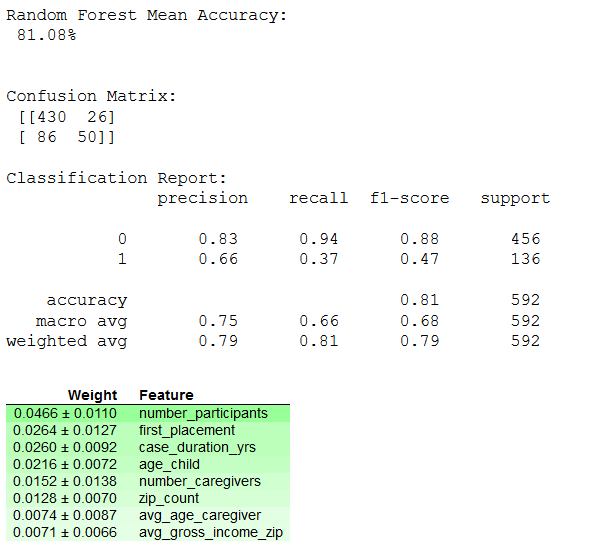
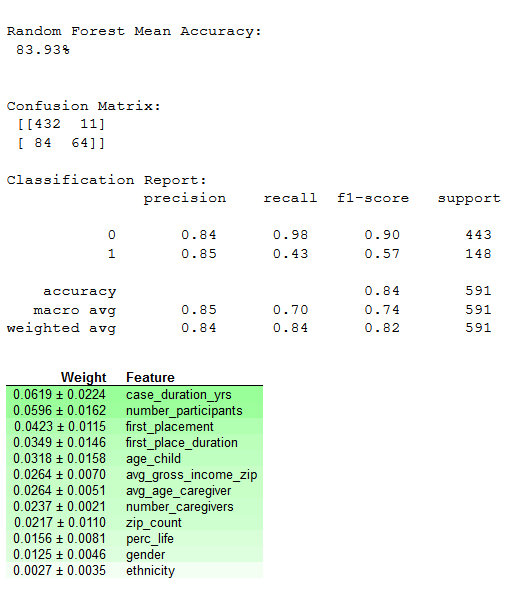
New modeling features; better accuracy

diff --git a/README.md b/README.md
@@ -41,7 +41,9 @@
  
  ## Model Accuracy
  So far I have achieved accuracies above 80% (overall) to classify a child as 0 (no risk of multiple removals), or
- 1 (multiple removals expected).  Both the Random Forest and XGBoost can be tuned to achieve 80+%.
+ 1 (multiple removals expected).  Both the Random Forest and XGBoost can be tuned to achieve 80+%.  There is currently 
+ a loop running in the Jupyter Notebook which finds the most accurate parameters for the Random Forest model. 
+ Although it takes some additional time to compute, the models make the best possible predictions.
  
  ![RF_model_stats](./pics/RF_model_stats.PNG)
  
